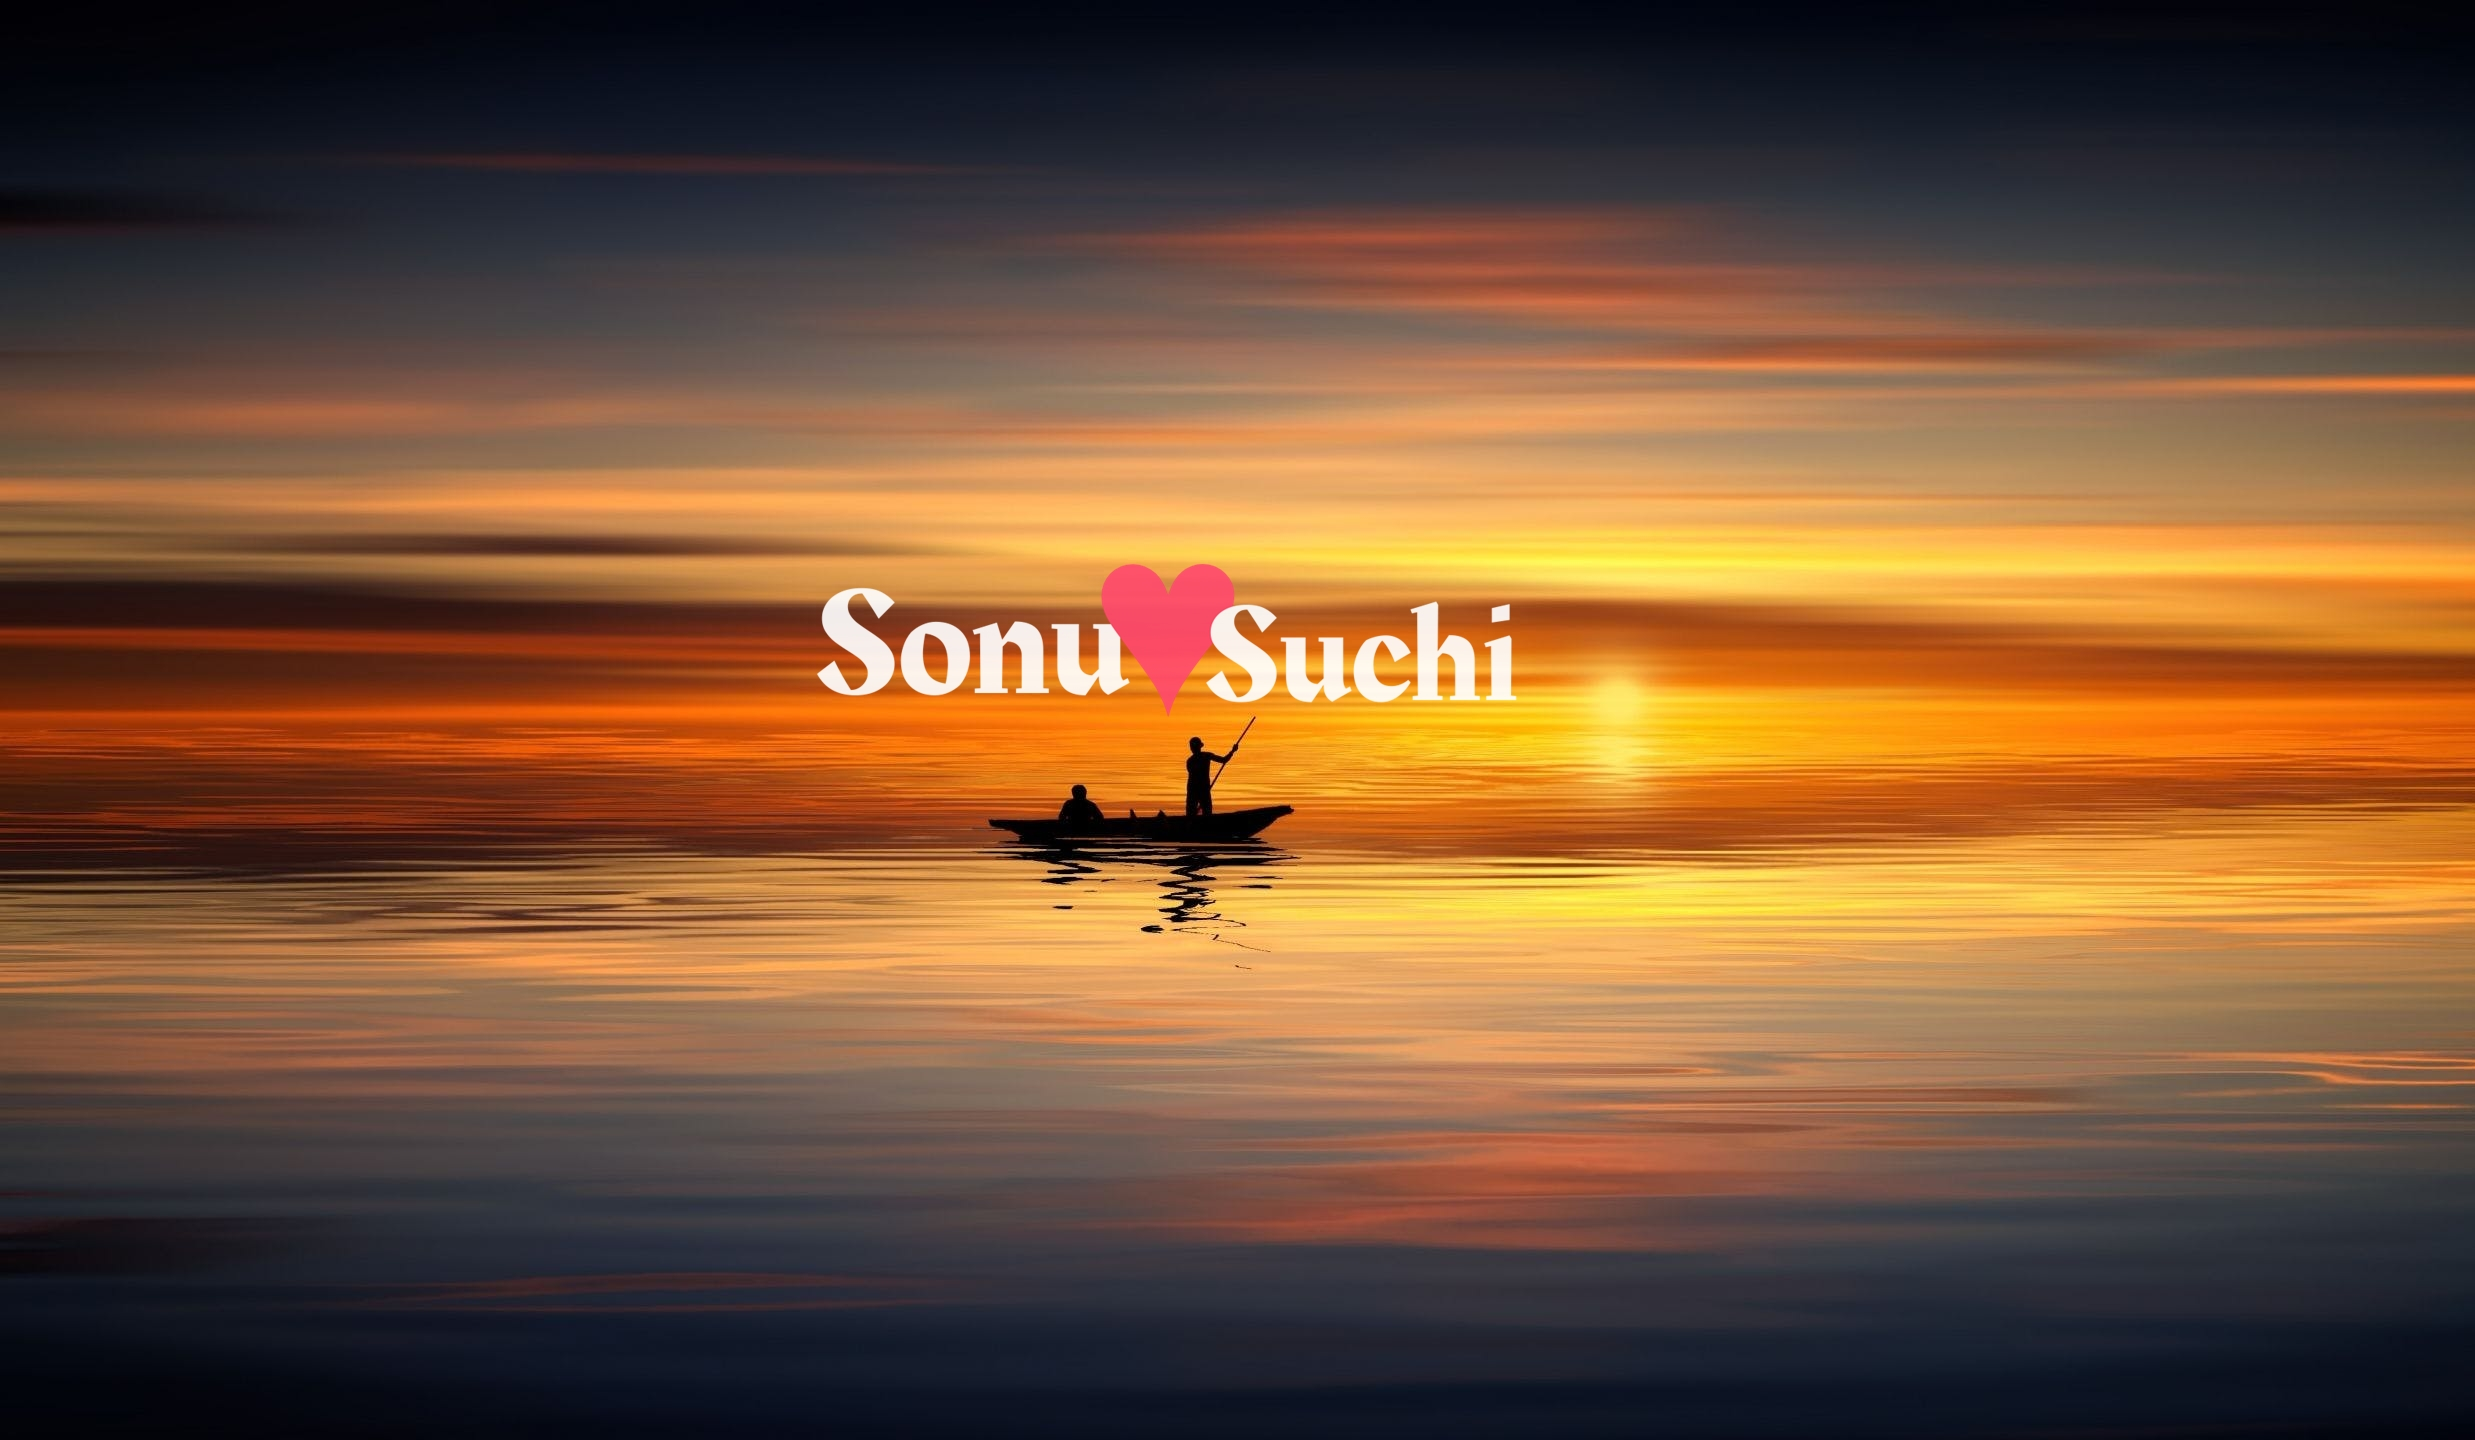
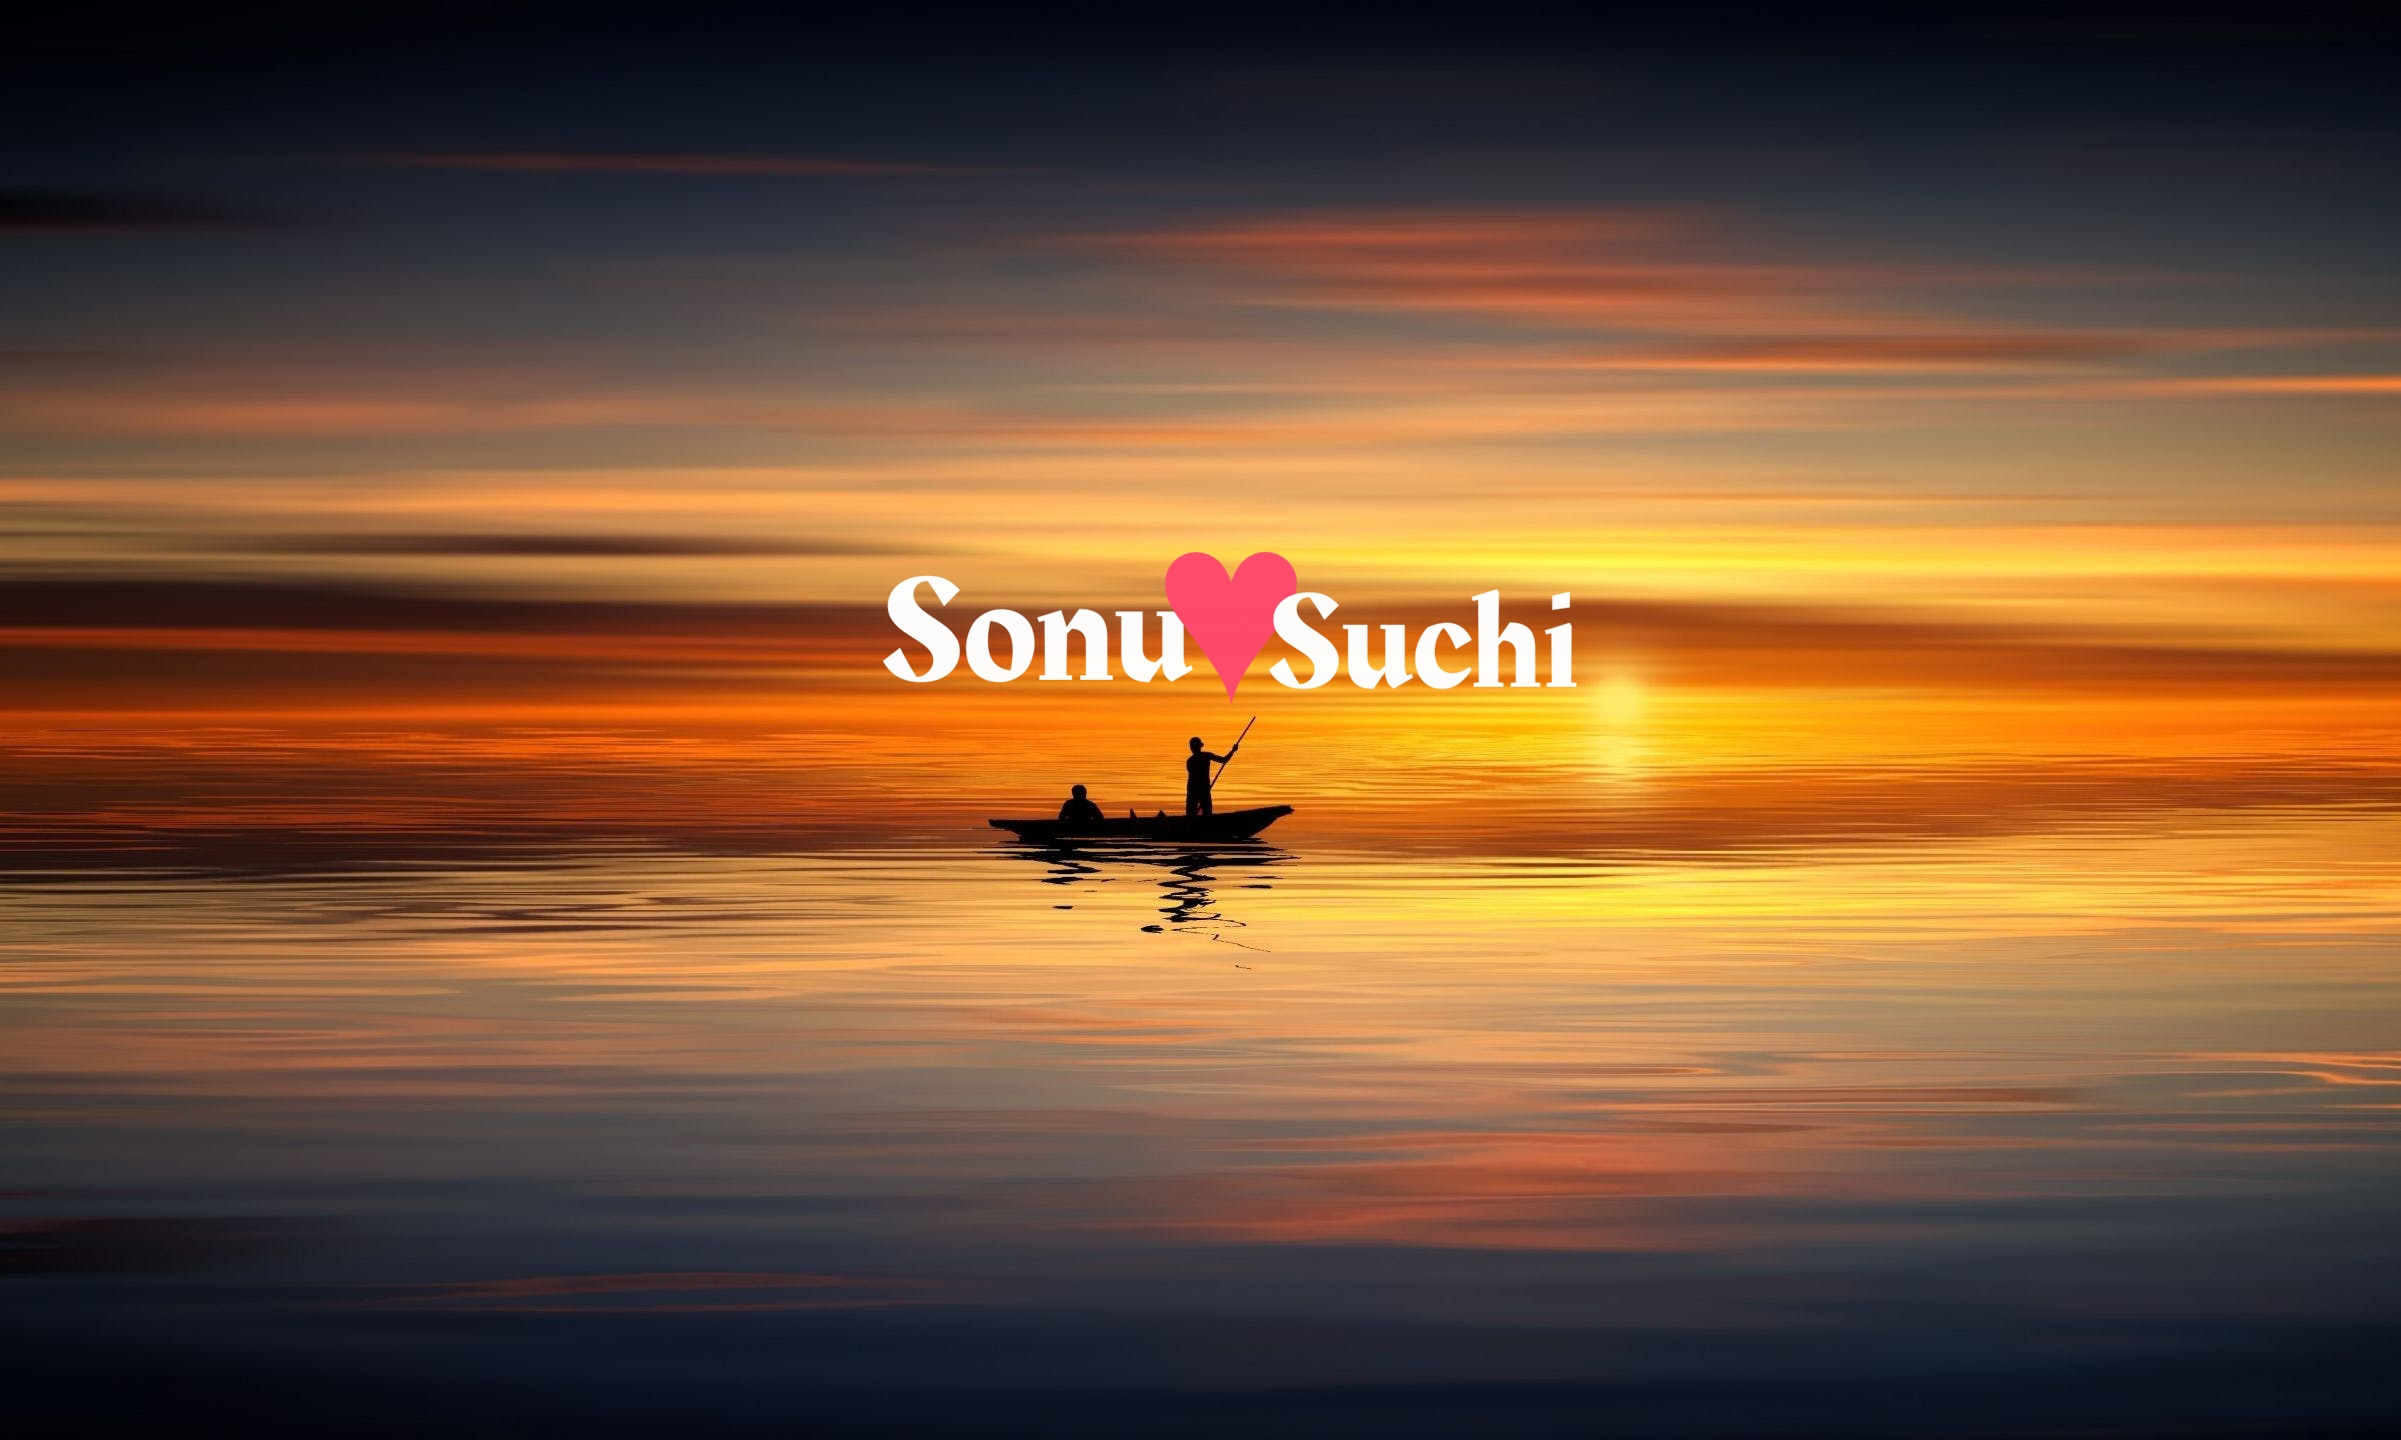
Modified img for mobile

diff --git a/index.html b/index.html
@@ -426,7 +426,7 @@
         <div class="row">
             <div class="col-sm-12 text-center content">
                 <span class="to-top-wrapper"><a href="#top" class="to-top"><i class="fa fa-angle-up"></i></a></span>
-                <p>Crafted by Saswat(on behlaf of Sonu) with lots of <span class="fa fa-heart pulse2"></span> for Sonu & Suchi.</p>
+                <p>Crafted by Saswat(on behlaf of Sonu/Santanu) with lots of <span class="fa fa-heart pulse2"></span> for Sonu & Suchi.</p>
                 <p>Contact <a>9348838922</a>(Saswat) to create your awesome wedding website</p>
             </div>
         </div>
